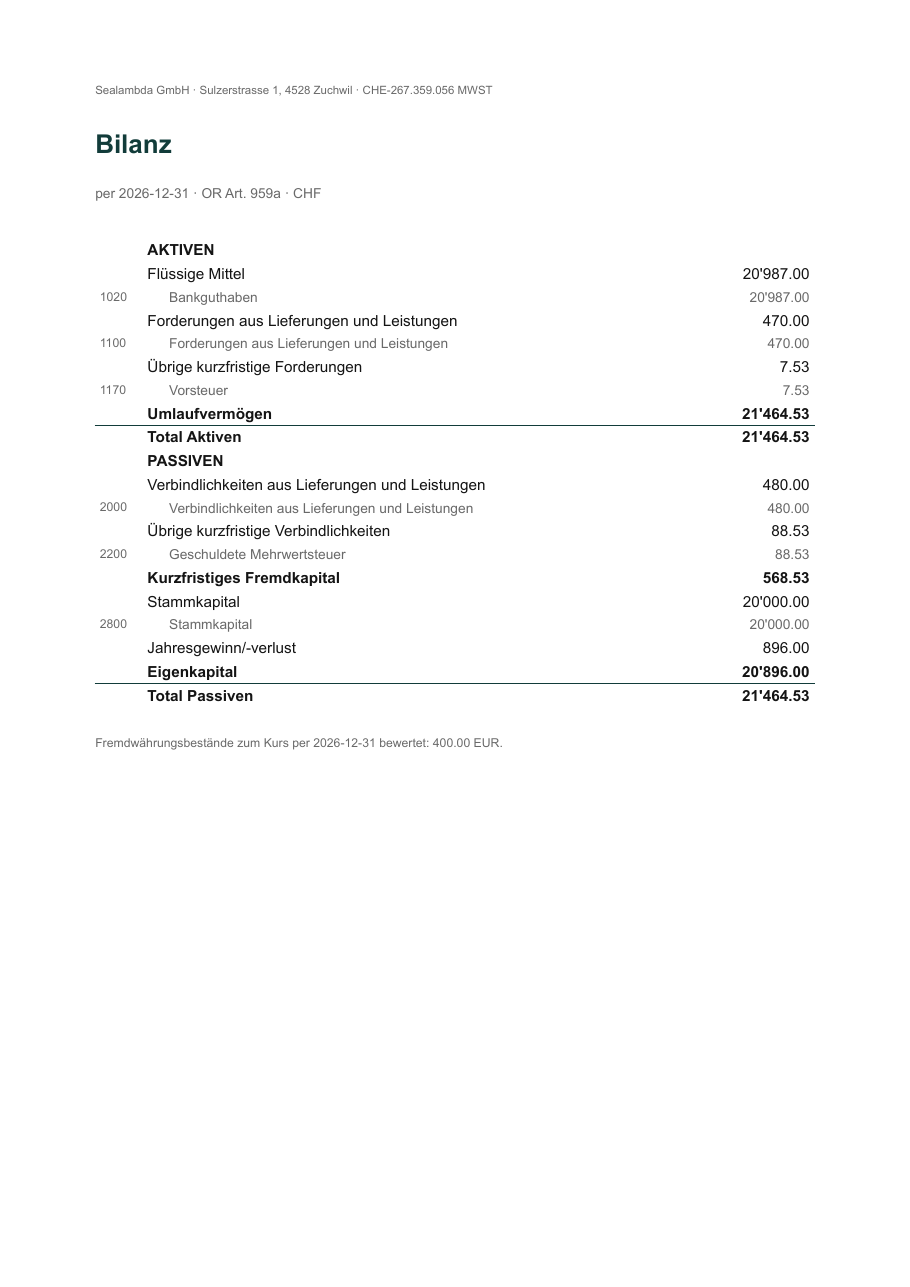
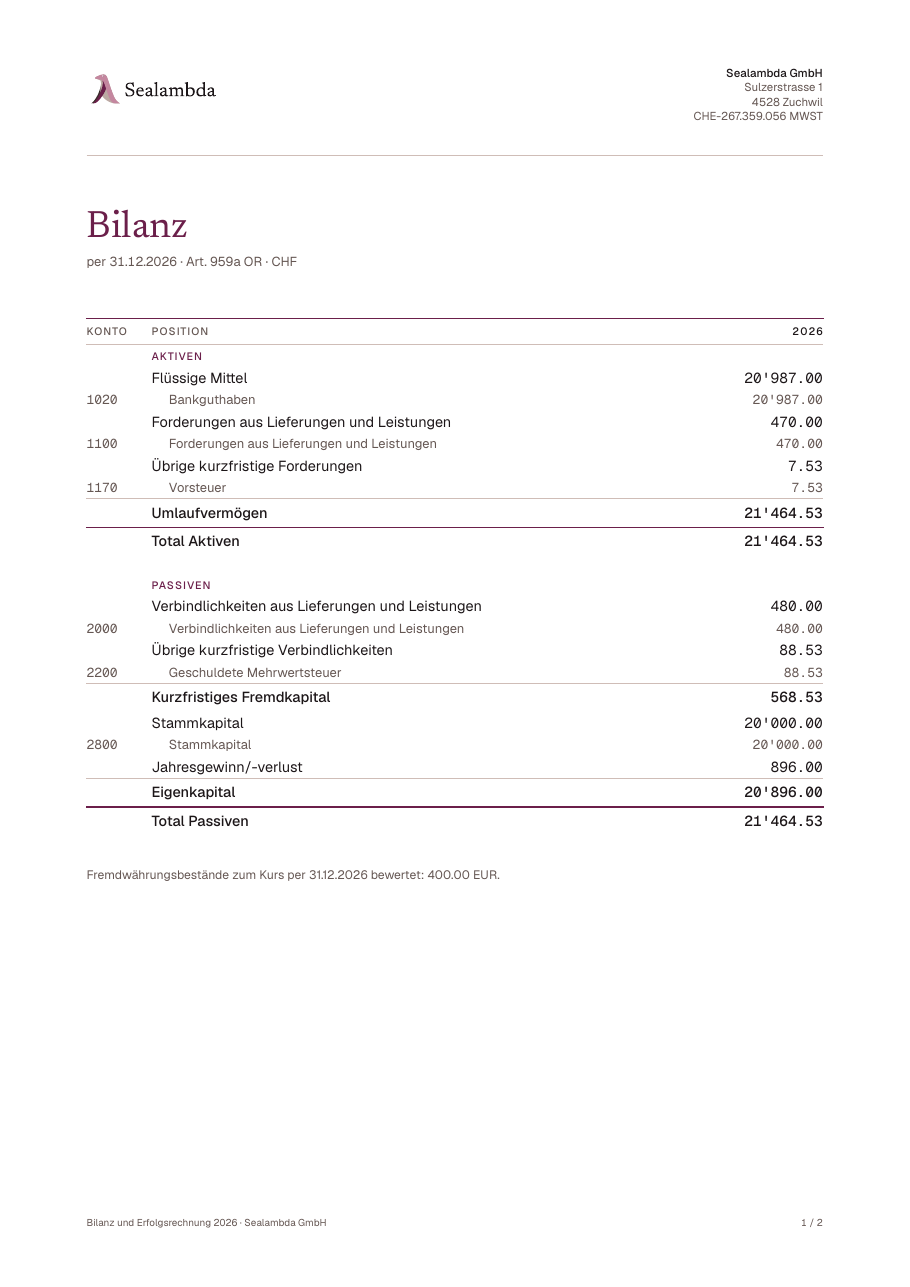
feat(statements): wear the invoice's brand, PDF/A-2a + PDF/UA-1
- The statements PDF now uses the issuer's brand from
  invoicing/issuer.yaml (wordmark header, accent, bundled Geist /
  Newsreader / Geist Mono, system fonts ignored) instead of
  machine-dependent Arial and a stale teal default.
- Table hierarchy: year-headed amount columns, accent section heads,
  subtle account rows with KMU codes, rules above subtotals and totals,
  tabular figures with a true minus; page numbers in the footer.
- Localized dates (31.12.2026 / 31 Dec 2026), citation as "Art. 959a OR"
  / "Art. 959a CO", and a document title naming both statements.
- PDF/A-2a + PDF/UA-1 (was 2b); pdfcheck.sh now validates the
  statements with veraPDF too.
- invoice.render: fonts() and brand_context() are now public for reuse.

Claude-Session: https://claude.ai/code/session_01CmJhgiZWDWqGwbBX9mTUS9

diff --git a/packages/quints/src/quints/report_pdf.py b/packages/quints/src/quints/report_pdf.py
@@ -1,13 +1,14 @@
 """Statutory statements as one PDF artifact (Typst) — plan 3 step 4.
 
-Bilanz + Erfolgsrechnung in the requested language, issuer identity from
-``invoicing/issuer.yaml``, with the prior year's figures (Art. 958d Abs. 2 OR)
+Bilanz + Erfolgsrechnung in the requested language, issuer identity and brand
+from ``invoicing/issuer.yaml`` (the invoice's tokens, fonts and wordmark), with
+the prior year's figures (Art. 958d Abs. 2 OR)
 and lines for the signatures (Art. 958 Abs. 3 OR). The notes (Anhang, Art.
 959c OR) are not part of it, and the PDF says so.
 
 All structure lives here as flat display lines (indent/code/label/amount/
 emphasis); the Typst template just lays them out. Same pipeline as the
-invoice: context → ``data.json`` → ``typst.compile`` (PDF/A-2b).
+invoice: context → ``data.json`` → ``typst.compile`` (PDF/A-2a + PDF/UA-1).
 """
 
 from __future__ import annotations
@@ -15,14 +16,17 @@ from __future__ import annotations
 import json
 import shutil
 import tempfile
+from datetime import date
 from decimal import Decimal
 from pathlib import Path
 from typing import TypedDict
 
 import typst
-import yaml
+from babel.dates import format_date
 
 from . import ui
+from .invoice.model import Brand, Issuer, load_issuer
+from .invoice.render import brand_context, fonts
 from .kmu import BilanzReport, ErfolgReport, RowLine, kmu_name, label
 
 TEMPLATE = Path(__file__).parent / "report.typ"
@@ -193,16 +197,27 @@ def erfolg_lines(report: ErfolgReport, lang: str) -> list[Line]:
     return lines
 
 
-def _load_issuer(path: Path) -> dict[str, object]:
-    data = yaml.safe_load(path.read_text()) if path.exists() else {}
-    return {
-        "name": data.get("name", ""),
-        "address": data.get("address", []),
-        "vat_id": data.get("vat_id", ""),
-        "accent": (data.get("brand") or {}).get("accent", "#123c3a"),
-        "font": (data.get("brand") or {}).get("font", "Liberation Sans"),
-    }
+def _date(iso: str, lang: str) -> str:
+    """CLDR medium date, as on the invoice (de → 31.12.2026, en → 31 Dec 2026)."""
+    return format_date(date.fromisoformat(iso), format="medium", locale=f"{lang}_CH")
 
+
+# The document is Bilanz + Erfolgsrechnung, not the whole Jahresrechnung: that
+# includes the notes (Art. 958 Abs. 2 OR), which this PDF leaves out.
+_TEXT = {
+    "en": {
+        "title": "Balance sheet and income statement",
+        "code": "Account",
+        "item": "Item",
+        "law": "CO",
+    },
+    "de": {
+        "title": "Bilanz und Erfolgsrechnung",
+        "code": "Konto",
+        "item": "Position",
+        "law": "OR",
+    },
+}
 
 _SIGNATURES = {
     "en": {
@@ -229,16 +244,18 @@ def build_context(
     bilanz: BilanzReport,
     erfolg: ErfolgReport,
     lang: str,
-    issuer_path: Path = DEFAULT_ISSUER,
+    issuer: Issuer | None = None,
     prior: tuple[BilanzReport, ErfolgReport] | None = None,
+    logo: str | None = None,
 ) -> dict[str, object]:
-    """`prior` adds the comparative column; leave it out for a first year."""
+    """`prior` adds the comparative column; leave it out for a first year.
+    Without an issuer the statements carry no identity and the default brand."""
     fx_note = ""
     if bilanz.converted:
         parts = ", ".join(f"{_money(v, lang)} {c}" for c, v in sorted(bilanz.converted.items()))
         fx_note = {
-            "en": f"Non-CHF balances valued at the {bilanz.at} rate: {parts}.",
-            "de": f"Fremdwährungsbestände zum Kurs per {bilanz.at} bewertet: {parts}.",
+            "en": f"Non-CHF balances valued at the {_date(bilanz.at, lang)} rate: {parts}.",
+            "de": f"Fremdwährungsbestände zum Kurs per {_date(bilanz.at, lang)} bewertet: {parts}.",
         }.get(lang, "")
     if bilanz.unrealized_fx:
         fx_note += f" {label('unrealized_fx', lang)}: {_money(bilanz.unrealized_fx, lang)}."
@@ -249,27 +266,40 @@ def build_context(
         if item not in problems:
             problems.append(item)
     b_lines, e_lines = bilanz_lines(bilanz, lang), erfolg_lines(erfolg, lang)
-    columns: list[str] = []
+    # Every amount column is headed by its year: the PDF/UA table needs a
+    # header, and the year says which figures are this year's.
+    columns = [bilanz.at[:4]]
     if prior:
         b_lines = with_prior(b_lines, bilanz_lines(prior[0], lang))
         e_lines = with_prior(e_lines, erfolg_lines(prior[1], lang))
-        columns = [bilanz.at[:4], prior[0].at[:4]]
+        columns.append(prior[0].at[:4])
+    text = _TEXT.get(lang, _TEXT["en"])
+    title = f"{text['title']} {bilanz.at[:4]}"
     return {
         "lang": lang,
         "columns": columns,
+        "head": {"code": text["code"], "item": text["item"]},
+        "document": {"title": f"{title} · {issuer.name}" if issuer else title},
         "signatures": _SIGNATURES.get(lang, _SIGNATURES["en"]),
-        "issuer": _load_issuer(issuer_path),
+        "issuer": {
+            "name": issuer.name if issuer else "",
+            "address": issuer.address if issuer else [],
+            "vat_id": issuer.vat_id if issuer else None,
+        },
+        "brand": brand_context(issuer.brand if issuer else Brand(), logo),
         "violations": problems,
         "violations_title": _PROBLEMS_TITLE.get(lang, _PROBLEMS_TITLE["en"]),
         "bilanz": {
             "title": label("bilanz_title", lang),
-            "subtitle": f"{label('as_at', lang)} {bilanz.at} · OR Art. 959a · CHF",
+            "subtitle": f"{label('as_at', lang)} {_date(bilanz.at, lang)}"
+            f" · Art. 959a {text['law']} · CHF",
             "lines": b_lines,
             "note": fx_note,
         },
         "erfolg": {
             "title": label("erfolg_title", lang),
-            "subtitle": f"{erfolg.date_from} – {erfolg.date_to} · OR Art. 959b · CHF",
+            "subtitle": f"{_date(erfolg.date_from, lang)} – {_date(erfolg.date_to, lang)}"
+            f" · Art. 959b {text['law']} · CHF",
             "lines": e_lines,
         },
     }
@@ -283,17 +313,31 @@ def render_pdf(
     issuer_path: Path = DEFAULT_ISSUER,
     prior: tuple[BilanzReport, ErfolgReport] | None = None,
 ) -> Path:
-    ctx = build_context(bilanz, erfolg, lang, issuer_path, prior)
+    issuer = load_issuer(issuer_path) if issuer_path.exists() else None
+    brand = issuer.brand if issuer else Brand()
     work = Path(tempfile.mkdtemp(prefix="quints-report-"))
     try:
+        logo = None
+        if brand.logo and Path(brand.logo).exists():
+            logo = "logo" + Path(brand.logo).suffix
+            shutil.copy(brand.logo, work / logo)
+        ctx = build_context(bilanz, erfolg, lang, issuer, prior, logo)
         (work / "data.json").write_text(json.dumps(ctx, ensure_ascii=False, indent=2))
         shutil.copy(TEMPLATE, work / "report.typ")
         out_path = Path(out_path)
         out_path.parent.mkdir(parents=True, exist_ok=True)
-        # Archival PDF/A-2b, never a silent plain-PDF fallback: the books' PDFs
-        # must stay readable for the ten years they are kept (Art. 958f OR).
+        # Same families, same machine-independence as the invoice (see
+        # `invoice.render._compile`). Archival PDF/A-2a + PDF/UA-1, never a
+        # silent plain-PDF fallback: the books' PDFs must stay readable — and
+        # their text extractable — for the ten years they are kept (Art. 958f OR).
+        font_paths, only_bundled = fonts(brand)
         typst.compile(
-            str(work / "report.typ"), output=str(out_path), root=str(work), pdf_standards="a-2b"
+            str(work / "report.typ"),
+            output=str(out_path),
+            root=str(work),
+            font_paths=[str(p) for p in font_paths],
+            ignore_system_fonts=only_bundled,
+            pdf_standards=["a-2a", "ua-1"],
         )
         return out_path
     finally:

diff --git a/packages/quints/src/quints/invoice/render.py b/packages/quints/src/quints/invoice/render.py
@@ -22,6 +22,7 @@ from .labels import labels as get_labels
 from .model import (
     Advance,
     BankAccount,
+    Brand,
     Invoice,
     Issuer,
     Totals,
@@ -165,7 +166,7 @@ def build_context(
         ],
         "payment": payment,
         "notes": list(inv.notes),
-        "brand": _brand_context(issuer, logo),
+        "brand": brand_context(issuer.brand, logo),
     }
 
 
@@ -231,8 +232,8 @@ def _totals_context(inv: Invoice, totals: Totals) -> dict[str, str | bool]:
     }
 
 
-def _brand_context(issuer: Issuer, logo: str | None) -> dict[str, str | float | bool | None]:
-    brand = issuer.brand
+def brand_context(brand: Brand, logo: str | None) -> dict[str, str | float | bool | None]:
+    """The brand tokens a template reads (`logo` is the copied file's name)."""
     return {
         "accent": brand.accent,
         "font": brand.font,
@@ -380,13 +381,12 @@ def _sepa_payment(
     }
 
 
-def _fonts(issuer: Issuer) -> tuple[list[Path], bool]:
+def fonts(brand: Brand) -> tuple[list[Path], bool]:
     """(font search path, whether only the bundled families may be used)."""
-    font_dir = issuer.brand.font_dir
+    font_dir = brand.font_dir
     issuer_fonts = [Path(font_dir)] if font_dir and Path(font_dir).is_dir() else []
     # Ours first so the guaranteed fallback is always resolvable; the
     # issuer's own families win on name, not on search order.
-    brand = issuer.brand
     named = {brand.font, brand.font_display or brand.font, brand.font_mono or brand.font}
     return [BUNDLED_FONTS, *issuer_fonts], bool(issuer_fonts) or named <= BUNDLED_FAMILIES
 
@@ -440,7 +440,7 @@ def render(
         (work / "data.json").write_text(json.dumps(ctx, ensure_ascii=False, indent=2))
         shutil.copy(TEMPLATE, work / "template.typ")
 
-        font_paths, only_bundled = _fonts(issuer)
+        font_paths, only_bundled = fonts(issuer.brand)
         out_path = Path(out_path)
         out_path.parent.mkdir(parents=True, exist_ok=True)
         _compile(work / "template.typ", out_path, work, font_paths, only_bundled, inv.issue_date)

diff --git a/packages/quints/tests/test_report_pdf.py b/packages/quints/tests/test_report_pdf.py
@@ -2,7 +2,10 @@
 
 from pathlib import Path
 
+import pytest
+
 from quints import kmu, report_pdf
+from quints.invoice.model import load_issuer
 
 LEDGER = """
 2024-01-01 open Assets:CH:GmbH:Current:UBS:CHF CHF
@@ -117,3 +120,30 @@ def test_render_pdf_with_prior_year(tmp_path: Path):
     assert ctx["columns"] == ["2026", "2025"]
     out = report_pdf.render_pdf(bilanz, erfolg, "de", tmp_path / "s.pdf", prior=prior)
     assert out.read_bytes()[:5] == b"%PDF-"
+
+
+def test_statements_wear_the_issuer_brand(tmp_path: Path, monkeypatch: pytest.MonkeyPatch):
+    """Same bundled families and archival standards as the invoice: no
+    machine-installed font can stand in, and the issuer's accent leads."""
+    import typst
+
+    bilanz, erfolg = _reports(tmp_path)
+    issuer = tmp_path / "issuer.yaml"
+    issuer.write_text(
+        'name: Acme GmbH\naddress: ["Weg 1", "8000 Zürich"]\nbrand:\n  accent: "#224466"\n'
+    )
+    seen: dict[str, object] = {}
+
+    def spy(_main: str, **kwargs: object) -> None:
+        seen.update(kwargs)
+
+    monkeypatch.setattr(typst, "compile", spy)
+    report_pdf.render_pdf(bilanz, erfolg, "de", tmp_path / "s.pdf", issuer_path=issuer)
+    assert seen["ignore_system_fonts"] is True
+    assert seen["pdf_standards"] == ["a-2a", "ua-1"]
+
+    ctx = report_pdf.build_context(bilanz, erfolg, "de", load_issuer(issuer))
+    assert ctx["brand"]["accent"] == "#224466"  # pyright: ignore[reportIndexIssue]
+    assert "per 30.06.2026 · Art. 959a OR" in ctx["bilanz"]["subtitle"]  # pyright: ignore[reportIndexIssue]
+    english = report_pdf.build_context(bilanz, erfolg, "en")
+    assert "Art. 959a CO" in english["bilanz"]["subtitle"]  # pyright: ignore[reportIndexIssue]

diff --git a/docs/guides/reports.md b/docs/guides/reports.md
@@ -108,8 +108,10 @@ What the law asks of the annual accounts, and what the PDF does about it:
 - **The notes (Anhang).** Not included, and the PDF says so. You write them
   separately (see [below](#what-quints-doesnt-do-here)).
 
-The PDF is PDF/A-2b, the archival format, so it stays readable for the ten
-years you keep it ([Close the year](year-end.md#keep-the-books-for-ten-years)).
+It carries the same wordmark, colours and typefaces as your invoices
+(`brand` in `invoicing/issuer.yaml`). The PDF is PDF/A-2a, the archival
+format, and PDF/UA-1, so it stays readable and searchable for the ten years
+you keep it ([Close the year](year-end.md#keep-the-books-for-ten-years)).
 
 ![The Bilanz page of the generated statements PDF, grouped by KMU code](../assets/statements.png){ width="480" }
 

diff --git a/docs/guides/year-end.md b/docs/guides/year-end.md
@@ -232,7 +232,7 @@ shasum -a 256 books-2026.tar.gz > books-2026.tar.gz.sha256
    archive lives. The scaffolded `AGENTS.md` describes the booking procedure
    and is a starting point.[^procedure]
 
-Invoices and statements are PDF/A-2b, the archival PDF format, so they render
+Invoices and statements are PDF/A-2a, the archival PDF format, so they render
 the same in ten years.
 
 ## Configuration
